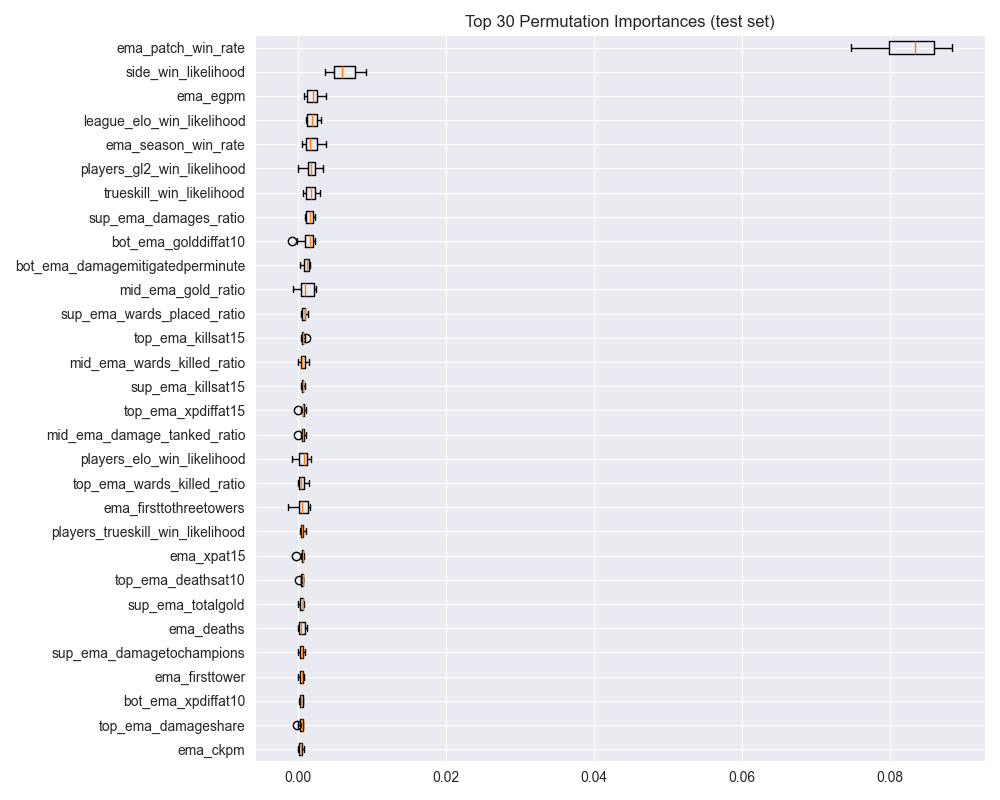
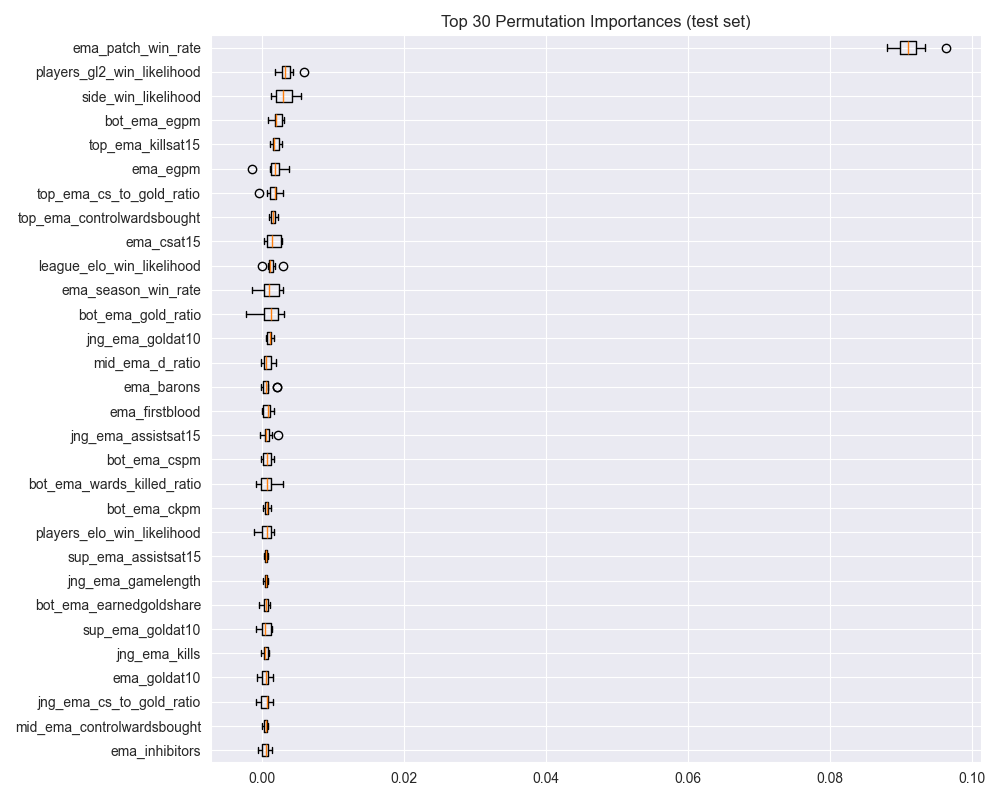
fix(models_training): Minor tweaks

diff --git a/src/feature_engineering/ratings_features/rating_models.py b/src/feature_engineering/ratings_features/rating_models.py
@@ -1,3 +1,9 @@
+"""
+Wrapper class for rating models
+
+This script contains a dataclass that serves as a wrapper for various rating models.
+"""
+
 from dataclasses import dataclass
 from typing import Any, Dict
 
@@ -15,108 +21,93 @@ class Ratings:
     A dataclass that serves as a wrapper for various rating models.
     """
 
-    def _prepare_args(self, match_data: Any, entity_type: str) -> Dict[str, Any]:
+    def _prepare_args(self, df: Any, entity: str) -> Dict[str, Any]:
         """
         Prepare arguments for rating calculation functions.
 
         Parameters:
-            match_data (Any): The input dataframe containing match data.
-            entity_type (str): The type of entity, e.g., 'team' or 'player'.
+            df (Any): The input dataframe containing match data.
+            entity (str): The type of entity, e.g., 'team' or 'player'.
 
         Returns:
             Dict[str, Any]: A dictionary of filtered arguments.
         """
-        return {"df": match_data, "entity": entity_type}
+        return {"df": df, "entity": entity}
 
-    def _compute_rating(self, match_data: Any, entity_type: str, rating_function: Any) -> Any:
-        """
-        Generic method to compute ratings using the specified rating function.
-
-        Parameters:
-            match_data (Any): The input dataframe containing match data.
-            entity_type (str): The type of entity, e.g., 'team' or 'player'.
-            rating_function (Any): The rating calculation function to use.
-
-        Returns:
-            Any: The dataframe with computed ratings.
-        """
-        args = self._prepare_args(match_data, entity_type)
-        return rating_function(**args)
-
-    def compute_elo(self, match_data: Any, entity_type: str) -> Any:
+    def compute_elo(self, df: Any, entity: str) -> Any:
         """
         Computes the ELO rating for the given dataframe and entity.
 
         Parameters:
-            match_data (Any): The input dataframe containing match data.
-            entity_type (str): The type of entity, e.g., 'team' or 'player'.
+            df (Any): The input dataframe containing match data.
+            entity (str): The type of entity, e.g., 'team' or 'player'.
 
         Returns:
             Any: The dataframe with computed ELO ratings.
         """
-        return self._compute_rating(match_data, entity_type, calculate_elo)
+        return calculate_elo(**self._prepare_args(df, entity))
 
-    def compute_glicko2(self, match_data: Any, entity_type: str) -> Any:
+    def compute_glicko2(self, df: Any, entity: str) -> Any:
         """
         Computes the Glicko-2 rating for the given dataframe and entity.
 
         Parameters:
-            match_data (Any): The input dataframe containing match data.
-            entity_type (str): The type of entity, e.g., 'team' or 'player'.
+            df (Any): The input dataframe containing match data.
+            entity (str): The type of entity, e.g., 'team' or 'player'.
 
         Returns:
             Any: The dataframe with computed Glicko-2 ratings.
         """
-        return self._compute_rating(match_data, entity_type, calculate_glicko2)
+        return calculate_glicko2(**self._prepare_args(df, entity))
 
-    def compute_plackett_luce(self, match_data: Any, entity_type: str) -> Any:
+    def compute_plackett_luce(self, df: Any, entity: str) -> Any:
         """
         Computes the Plackett-Luce rating for the given dataframe and entity.
 
         Parameters:
-            match_data (Any): The input dataframe containing match data.
-            entity_type (str): The type of entity, e.g., 'team' or 'player'.
+            df (Any): The input dataframe containing match data.
+            entity (str): The type of entity, e.g., 'team' or 'player'.
 
         Returns:
             Any: The dataframe with computed Plackett-Luce ratings.
         """
-        return self._compute_rating(match_data, entity_type, calculate_plackett_luce)
+        return calculate_plackett_luce(**self._prepare_args(df, entity))
 
-    def compute_trueskill(self, match_data: Any, entity_type: str) -> Any:
+    def compute_trueskill(self, df: Any, entity: str) -> Any:
         """
         Computes the TrueSkill rating for the given dataframe and entity.
 
         Parameters:
-            match_data (Any): The input dataframe containing match data.
-            entity_type (str): The type of entity, e.g., 'team' or 'player'.
+            df (Any): The input dataframe containing match data.
+            entity (str): The type of entity, e.g., 'team' or 'player'.
 
         Returns:
             Any: The dataframe with computed TrueSkill ratings.
         """
-        return self._compute_rating(match_data, entity_type, calculate_trueskill)
+        return calculate_trueskill(**self._prepare_args(df, entity))
 
-    def compute_whr(self, match_data: Any, entity_type: str) -> Any:
+    def compute_whr(self, df: Any, entity: str) -> Any:
         """
         Computes the Whole History Rating for the given dataframe and entity.
 
         Parameters:
-            match_data (Any): The input dataframe containing match data.
-            entity_type (str): The type of entity, e.g., 'team' or 'player'.
+            df (Any): The input dataframe containing match data.
+            entity (str): The type of entity, e.g., 'team' or 'player'.
 
         Returns:
             Any: The dataframe with computed Whole History Ratings.
         """
-        return self._compute_rating(match_data, entity_type, calculate_whr)
+        return calculate_whr(**self._prepare_args(df, entity))
 
-    def compute_leagues_elo(self, match_data: Any, entity_type: str) -> Any:
+    def compute_leagues_elo(self, df: Any, entity: str) -> Any:
         """
         Computes the ELO rating for leagues based on the given dataframe and entity.
 
         Parameters:
-            match_data (Any): The input dataframe containing match data.
-            entity_type (str): The type of entity, e.g., 'team' or 'player'.
+            df (Any): The input dataframe containing match data.
+            entity (str): The type of entity, e.g., 'team' or 'player'.
 
         Returns:
             Any: The dataframe with computed league ELO ratings.
         """
-        return self._compute_rating(match_data, entity_type, calculate_leagues_elo)
+        return calculate_leagues_elo(**self._prepare_args(df, entity))

diff --git a/src/prediction_models/lightgbm_model.py b/src/prediction_models/lightgbm_model.py
@@ -31,13 +31,10 @@ class LightGBMModel(GradientBoostingModel):
         """Train the LightGBM model using the training data."""
         X, y, categorical_cols = self._prepare_features_and_target(target_col)
         X_train, X_val, X_test, y_train, y_val, y_test, eval_gameids, eval_sides = self._split_data(X, y)
-
         X_train, X_val, X_test = self._preprocess_features(X_train, X_val, X_test)
         X_train, X_val, X_test = self._select_and_store_features(X_train, X_val, X_test, y_val, categorical_cols)
-
         best_params = self._get_best_hyperparameters(X_train, y_train, X_val, y_val)
         model = self._fit_model(X_train, y_train, X_val, y_val, best_params)
-
         return model, X_test, y_test, eval_gameids, eval_sides
 
     def train_and_validate_model(self, target_col="result"):
@@ -49,7 +46,8 @@ class LightGBMModel(GradientBoostingModel):
 
     def _prepare_features_and_target(self, target_col: str):
         """Prepare the features and target for model training."""
-        X, y = self.training_data.drop([target_col], axis=1), self.training_data[target_col]
+        X = self.training_data.drop([target_col], axis=1)
+        y = self.training_data[target_col]
         X, categorical_features = self.preprocess_categorical_features(X, exclude_cols=["gameid", "side", "league"])
         return X, y, categorical_features
 
@@ -70,12 +68,10 @@ class LightGBMModel(GradientBoostingModel):
 
     def _preprocess_features(self, X_train: pd.DataFrame, X_val: pd.DataFrame, X_test: pd.DataFrame):
         """Process and fuse features for training, validation, and testing sets."""
-        X_train = self.process_players_likelihood_columns(X_train)
-        X_val = self.process_players_likelihood_columns(X_val)
-        X_test = self.process_players_likelihood_columns(X_test)
-        X_train = self.fuse_opposing_team_features(X_train)
-        X_val = self.fuse_opposing_team_features(X_val)
-        X_test = self.fuse_opposing_team_features(X_test)
+        for func in [self.process_players_likelihood_columns, self.fuse_opposing_team_features]:
+            X_train = func(X_train)
+            X_val = func(X_val)
+            X_test = func(X_test)
         return X_train, X_val, X_test
 
     def _select_and_store_features(
@@ -90,7 +86,6 @@ class LightGBMModel(GradientBoostingModel):
         X_val = X_val[selected_features]
         X_test = X_test[selected_features]
 
-        # Update and store categorical features
         categorical_features = [col for col in categorical_cols if col in selected_features]
 
         self.store_correlation(X_val, y_val)
@@ -143,7 +138,6 @@ class LightGBMModel(GradientBoostingModel):
             clf.fit(X_train, y_train, eval_set=[(X_val, y_val)])
             pred_proba = clf.predict_proba(X_val)[:, 1]
             logloss_score = log_loss(y_val, pred_proba)
-
             return logloss_score
 
         study = optuna.create_study(direction="minimize", sampler=optuna.samplers.TPESampler())

diff --git a/src/prediction_models/gbdt_model.py b/src/prediction_models/gbdt_model.py
@@ -54,9 +54,13 @@ class GradientBoostingModel(ABC):
 
     def remove_other_targets(self, target_col: str) -> None:
         """Remove other target columns from the dataset."""
-        target_cols = json_loader(TARGET_FEATURES)["targets"]
-        target_cols.remove(target_col)
-        self.team_data.drop(columns=target_cols, inplace=True)
+        try:
+            target_cols = json_loader(TARGET_FEATURES)["targets"]
+            if target_col in target_cols:
+                target_cols.remove(target_col)
+            self.team_data.drop(columns=target_cols, inplace=True)
+        except KeyError as e:
+            logger.error(f"Error removing target columns: {e}")
 
     def pivot_player_data(self) -> None:
         """Pivot player data to create features for each position."""
@@ -145,12 +149,14 @@ class GradientBoostingModel(ABC):
     @staticmethod
     def fuse_opposing_team_features(X: pd.DataFrame) -> pd.DataFrame:
         """Fuses opposing team features by subtracting the opposing stats from the original stats."""
+        # Process columns with 'opp_' prefix
         for col in X.filter(like="opp_").columns:
-            original_col = col[4:]
+            original_col = col[4:]  # Remove 'opp_' prefix
             if original_col in X.columns:
                 X[original_col] -= X[col]
                 X.drop(columns=[col], inplace=True)
 
+        # Process role-specific columns with '{role}_opp_' prefix
         roles = ["top", "jng", "mid", "bot", "sup"]
         for role in roles:
             for col in X.filter(like=f"{role}_opp_").columns:
@@ -177,10 +183,11 @@ class GradientBoostingModel(ABC):
     def remove_unnecessary_columns(df: pd.DataFrame) -> pd.DataFrame:
         """Removes columns that are unnecessary or degrade model performance."""
         df = df.loc[:, ~df.columns.str.contains("_std")]
-        # df = df.loc[:, ~df.columns.str.contains("season_win_likelihood")]
-        # df = df.loc[:, ~df.columns.str.contains("patch_win_likelihood")]
         df = GradientBoostingModel.drop_low_std_columns(df, LOW_STD_THRESHOLD)
         df = GradientBoostingModel.drop_highly_correlated_features(df, HIGH_CORR_THRESHOLD)
+        df = df.loc[:, ~df.columns.str.contains("ema_total_towers")]
+        df = df.loc[:, ~df.columns.str.contains("ema_total_kills")]
+        # TODO: id like to drop all columns whose importance is below a certain threshold like score 5
         return df
 
     @staticmethod

diff --git a/src/ingestion/oracles_elixir.py b/src/ingestion/oracles_elixir.py
@@ -70,7 +70,7 @@ class OraclesElixir:
         id_cols = ["gameid", "playerid", "teamid", "league", "teamname", "playername"]
         oe_data.loc[:, id_cols] = oe_data[id_cols].apply(lambda x: x.str.strip()).replace("", np.nan)
         oe_data = oe_data.replace(NULL_REPLACEMENTS, pd.NA)
-        oe_data.loc[:, "gamelength"] = oe_data["gamelength"].astype(float).div(60)
+        oe_data["gamelength"] = oe_data["gamelength"].astype(float).div(60)
         logger.info("Data formatting completed.")
         return oe_data
 
